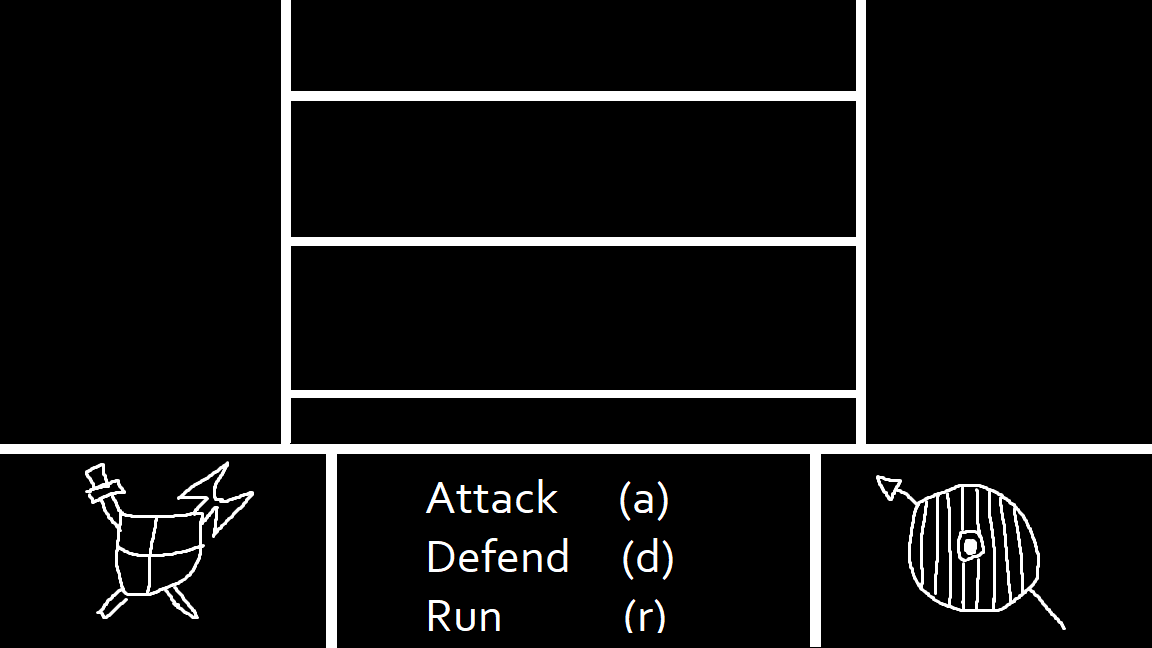
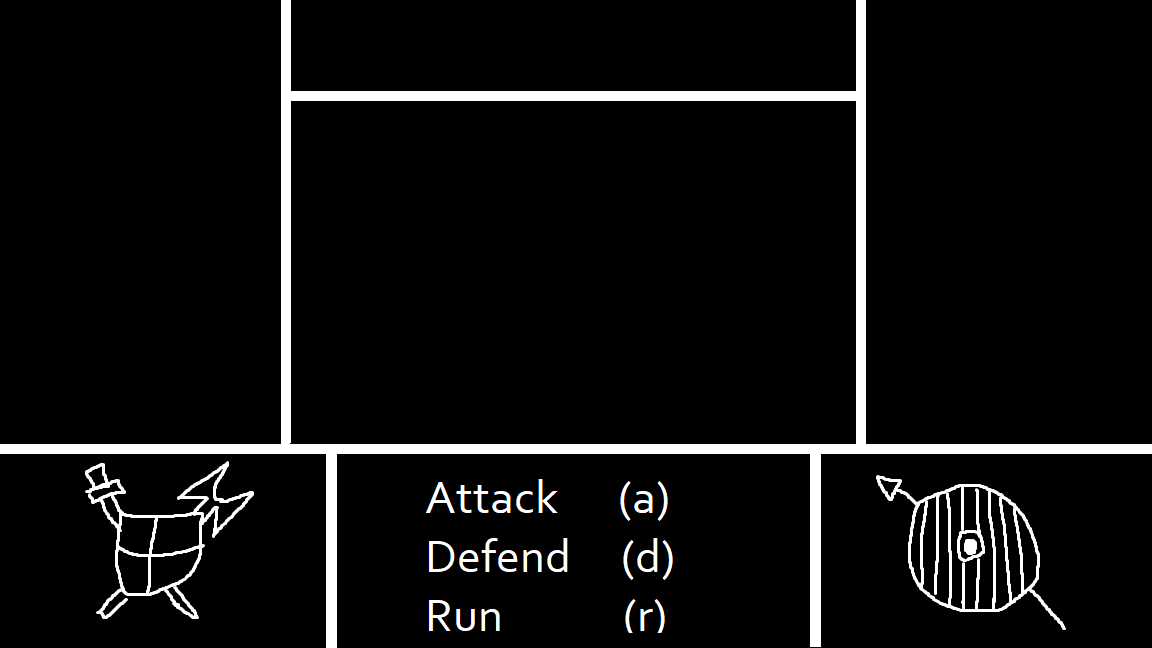
Amend: BattleUI

Changed region(s): [[0.25, 0.3395, 0.75, 0.4012], [0.25, 0.5864, 0.75, 0.6173]]

diff --git a/The-Wandering-Lark/Scenes/battleScene.py b/The-Wandering-Lark/Scenes/battleScene.py
@@ -36,7 +36,7 @@ class battleScene(Scene):
         self.playerStats()
         self.enemyStats()
         self.info_messages()
-        self.inventory()
+        #self.inventory()
 
 
     def playerStats(self):

diff --git a/The-Wandering-Lark/CONTRIBUTING.md b/The-Wandering-Lark/CONTRIBUTING.md
@@ -3,6 +3,7 @@
 ### Feat: A commit that introduces a new feature
 ### Fix: A commit that patches a bug
 ### Amend: A commit that changes an already existing feature
+### Add: A commit for adding files that don't affect the codebase
 
 # Python Style:
 ### TBD
